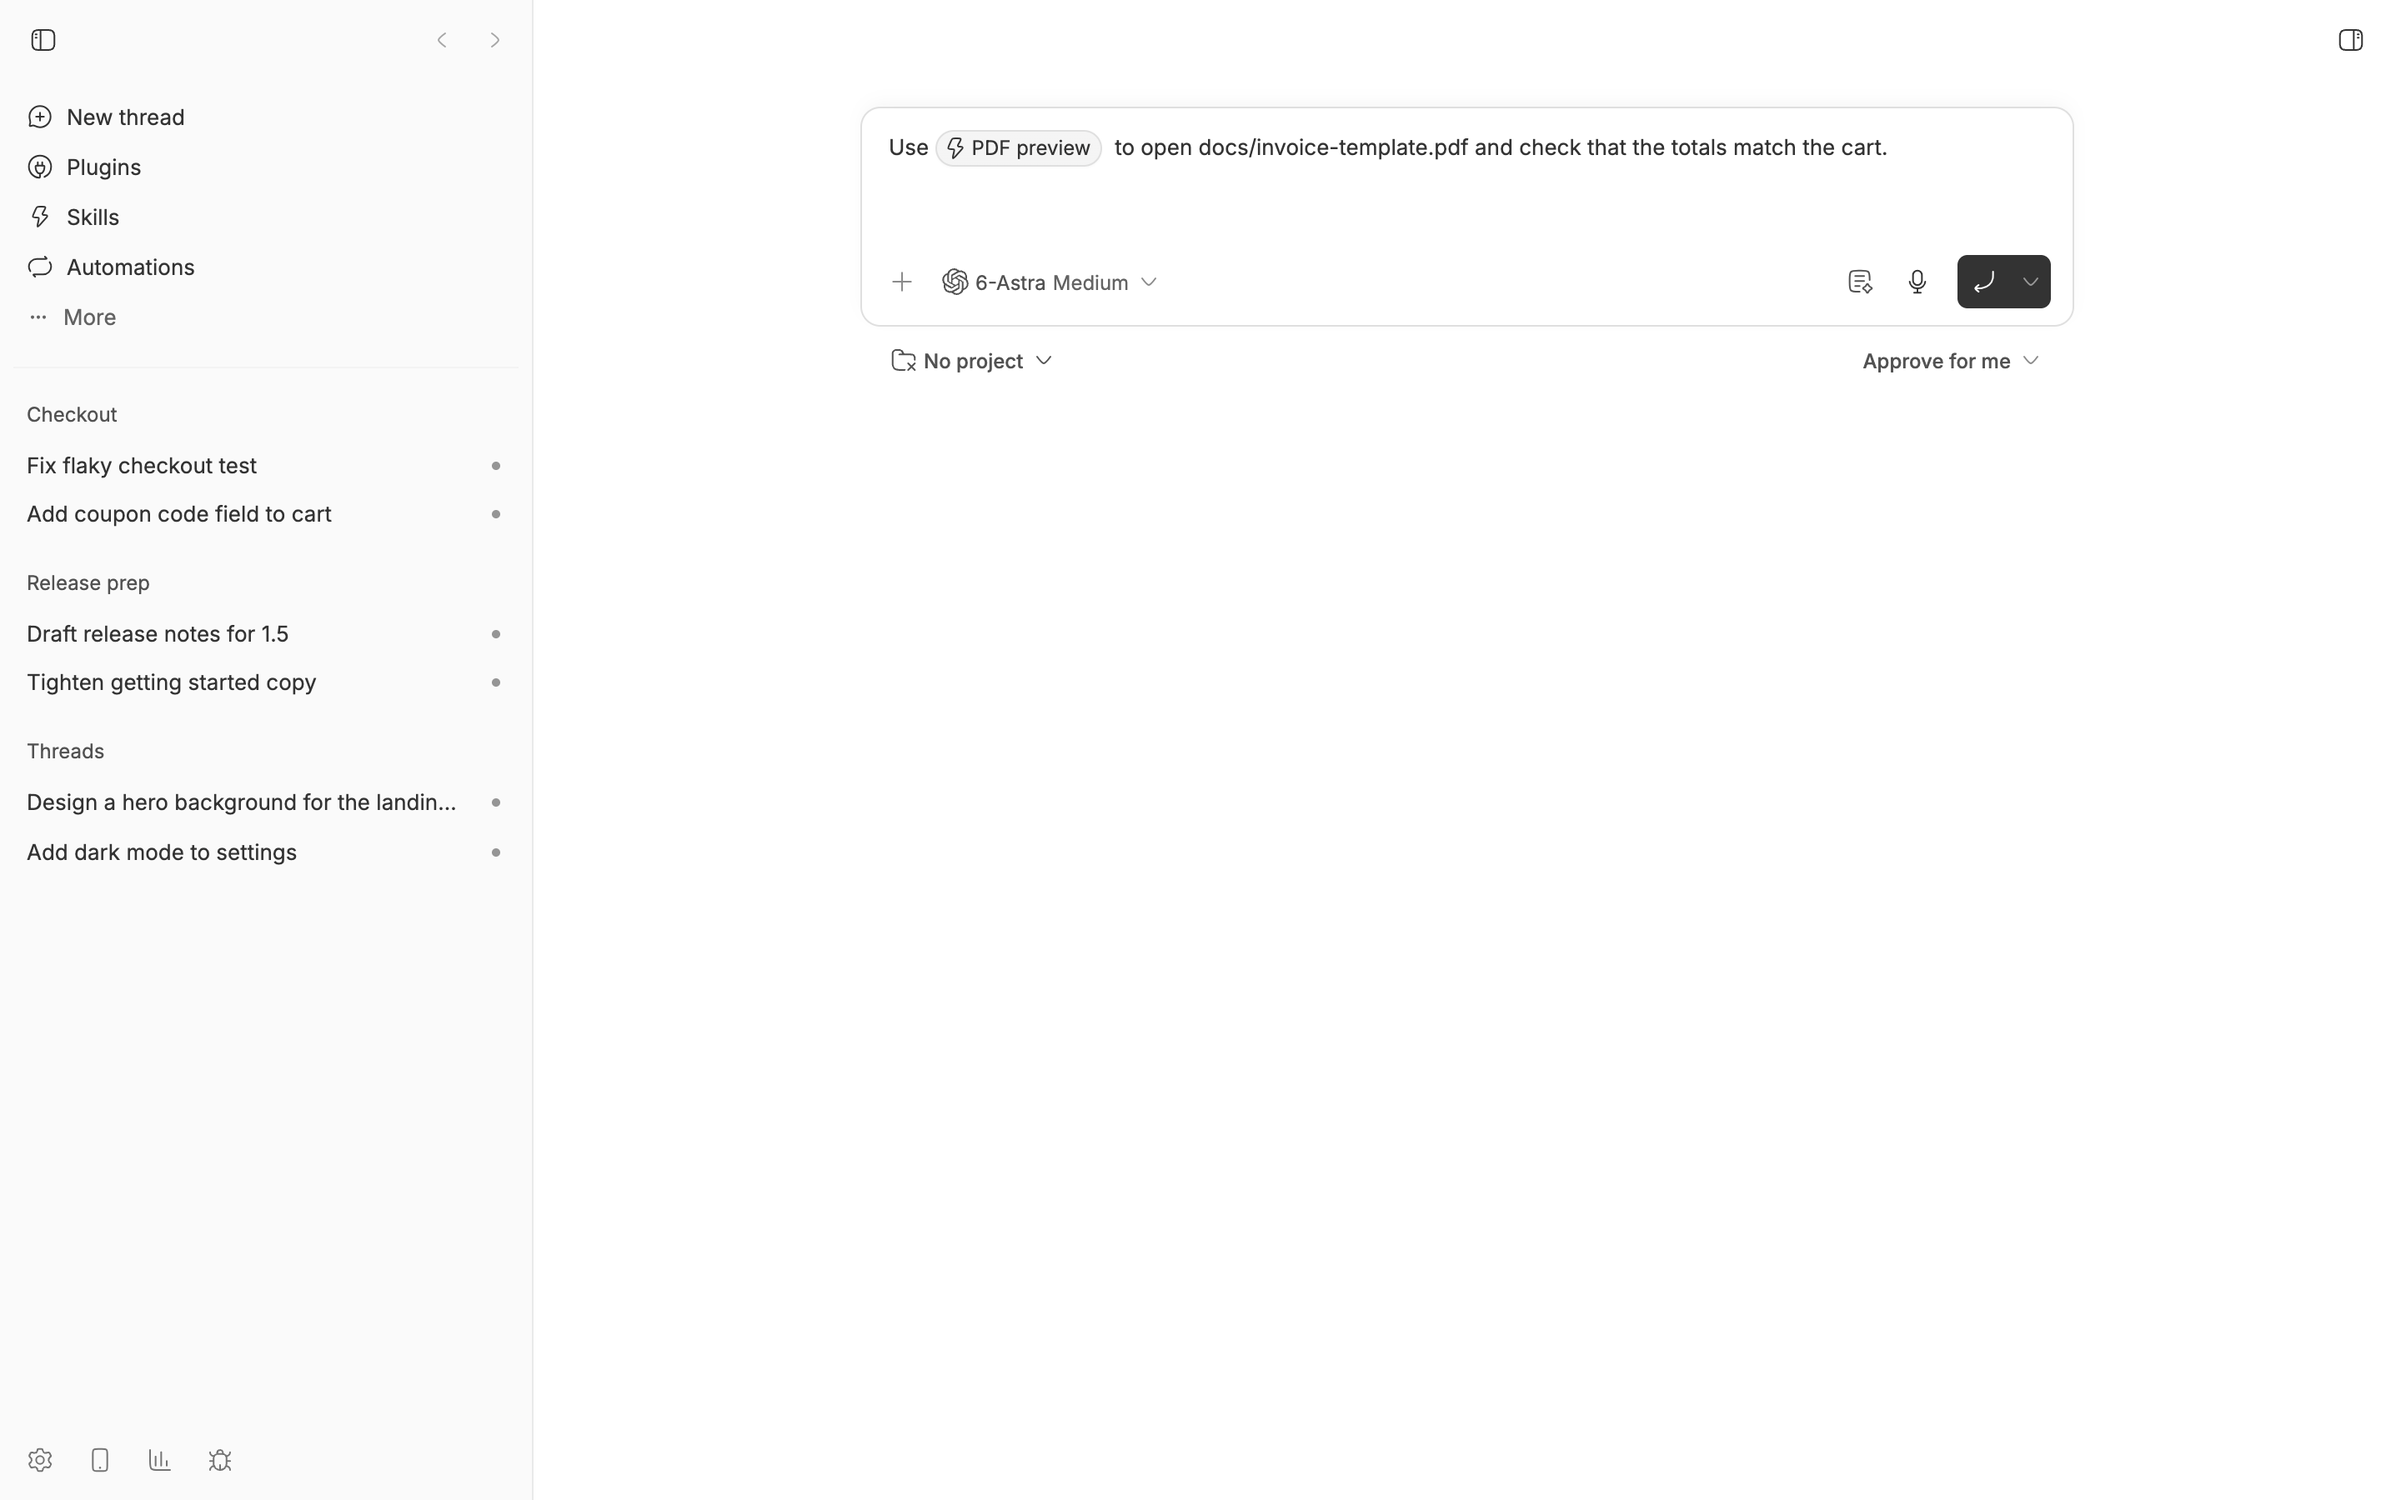
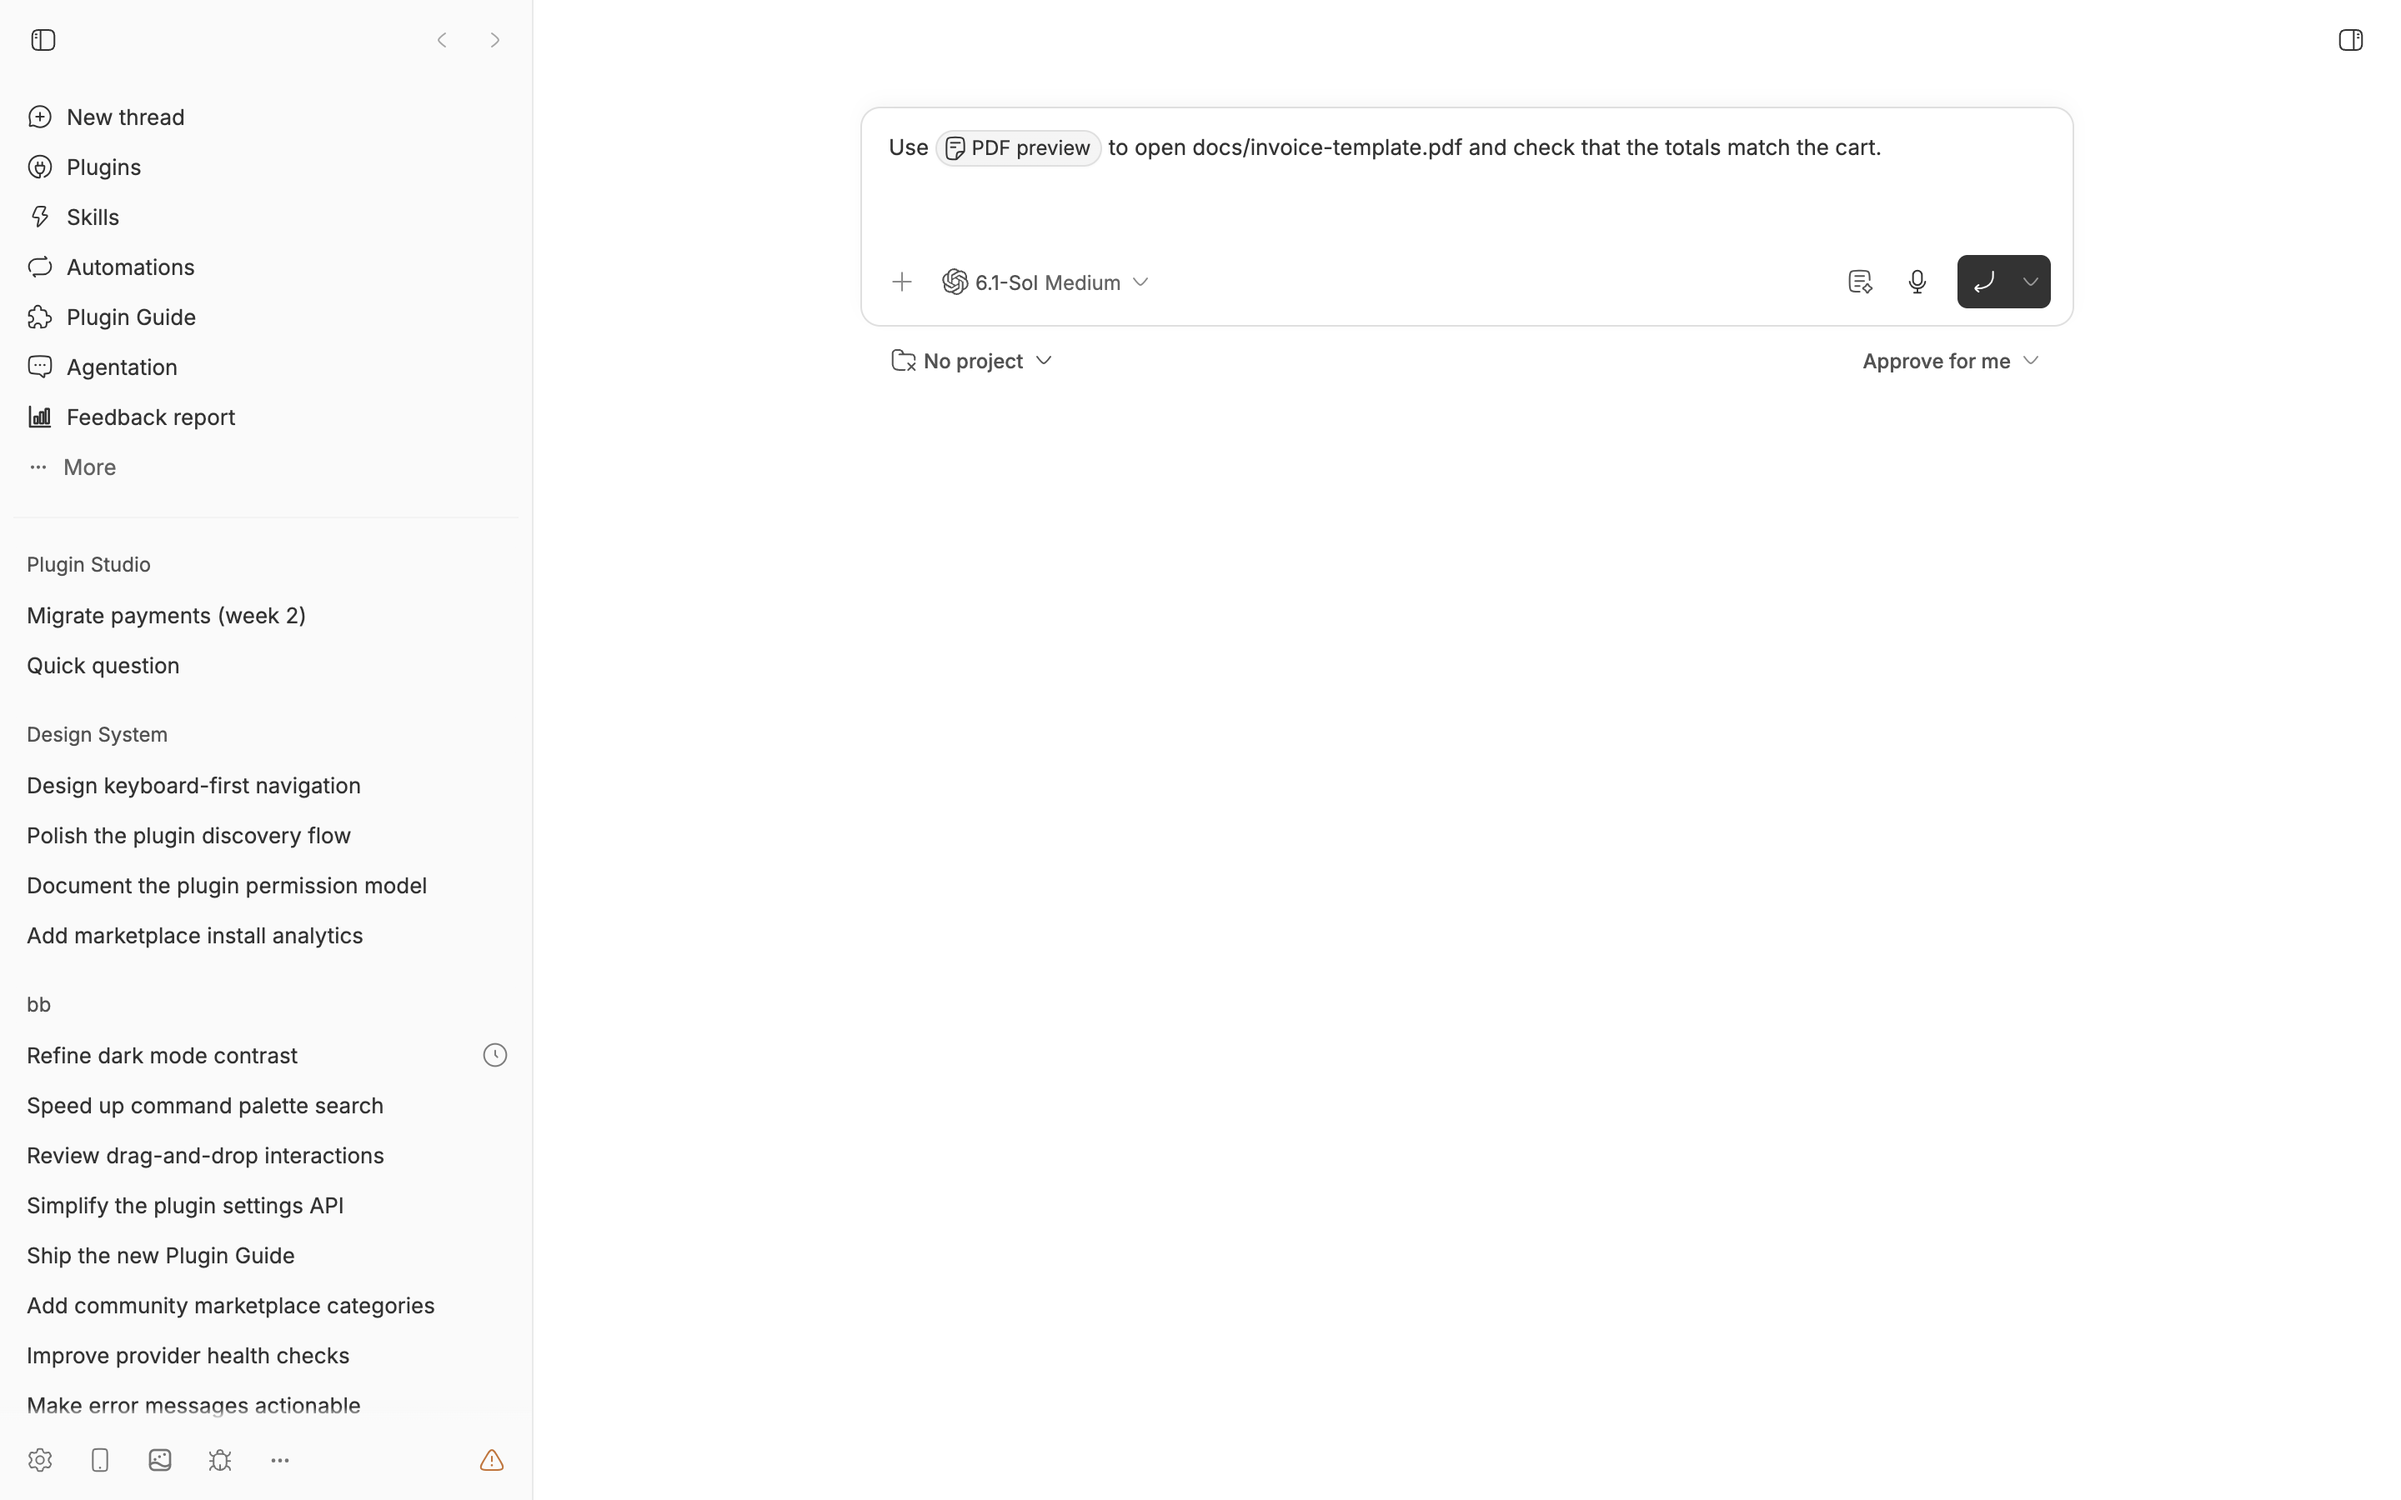
Update plugin entry: at-plugin (#431)
Automated note from a Claude Code agent, posted on behalf of the marketplace maintainer.

Reviewed under the maintainer’s four admission criteria. Exact selected releases passed installation/load testing on BB 0.44.0; selected source identities rechecked before merge. Required format passes, with no evidence of malware or author self-addition to New and Notable. Intentional existing-entry metadata changes are approved where applicable.

diff --git a/overview/at-plugin.md b/overview/at-plugin.md
@@ -1,17 +1,23 @@
 ## Find the right plugin
 
-Type `#` in the composer followed by a keyword, such as `#pdf`, to search the plugins you have and the ones in BB Community. Type `#plugins` to browse everything. The `@plugin` syntax also works.
+Type `#` in the composer followed by a keyword, such as `#pdf`, to search the plugins you have and the ones in BB Community. Type `#plugins` to browse everything. The same results also appear in the `@` menu, so `@pdf` works too.
 
-Search covers names, plugin IDs, full descriptions, and long-form overviews. Community results also match tags and categories. Installed matches appear without waiting for the catalog.
+Results come in two groups:
+
+- **Installed plugins** lists the enabled, running plugins on this bb, each with its own icon.
+- **Community plugins** lists compatible BB Community plugins you have not installed yet, marked "Not installed" and shown with the Plugins icon.
+
+Search covers names, plugin IDs, full descriptions, and long-form overviews. Community results also match tags and categories, with name and description matches ranked ahead of overview mentions. Installed matches appear without waiting for the catalog.
 
 ## Point your agent at it
 
-Select a result to add a plugin mention to your message. Mention an installed plugin to tell your agent which one to use, or mention a Community plugin to discuss whether it fits. A mention never installs, enables, or runs a plugin by itself.
+Select a result to add a plugin mention to your message. The mention keeps the plugin's icon, so you can tell at a glance which plugin you picked.
+
+- Mention an installed plugin to tell your agent which one to use for the task.
+- Mention a Community plugin to discuss whether it fits. Your agent knows it is not installed yet and will not try to use it.
+
+A mention never installs, enables, or runs a plugin by itself.
 
 ## Let your agent search
 
 Ask your agent to find a plugin for the task. It can run `bb at-plugin search "keyword" --json` and `bb at-plugin show <plugin-id> --json`, which return descriptions, overview text, and screenshot links it can show you.
-
-## Availability
-
-Installed results include enabled, running plugins. Community results include compatible plugins you have not installed.
